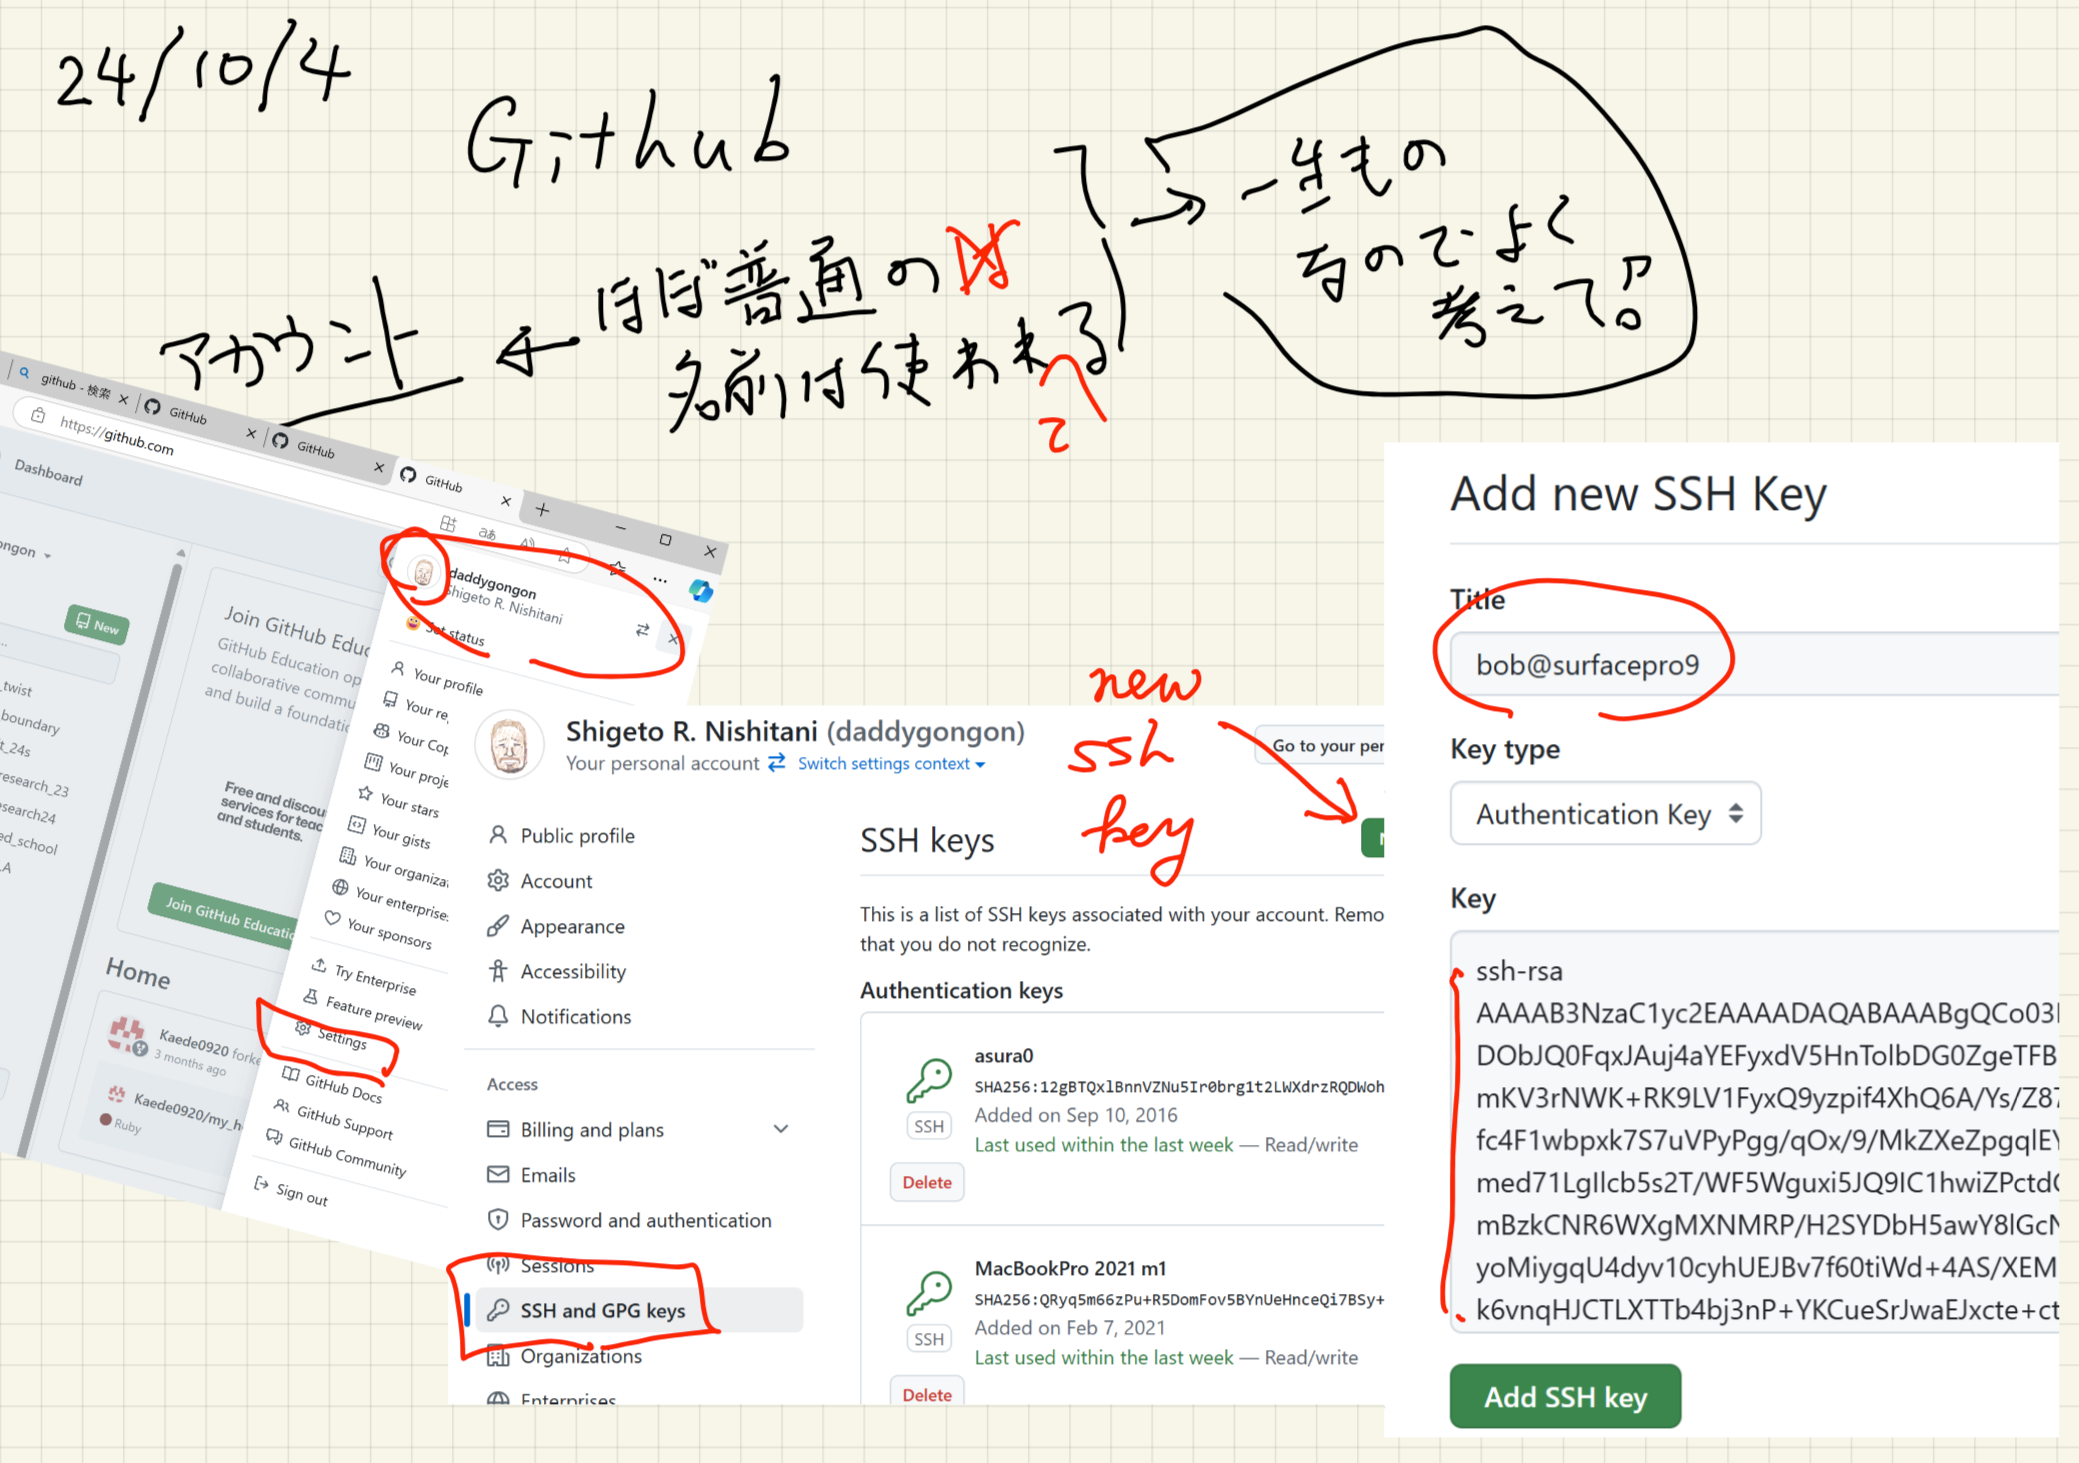
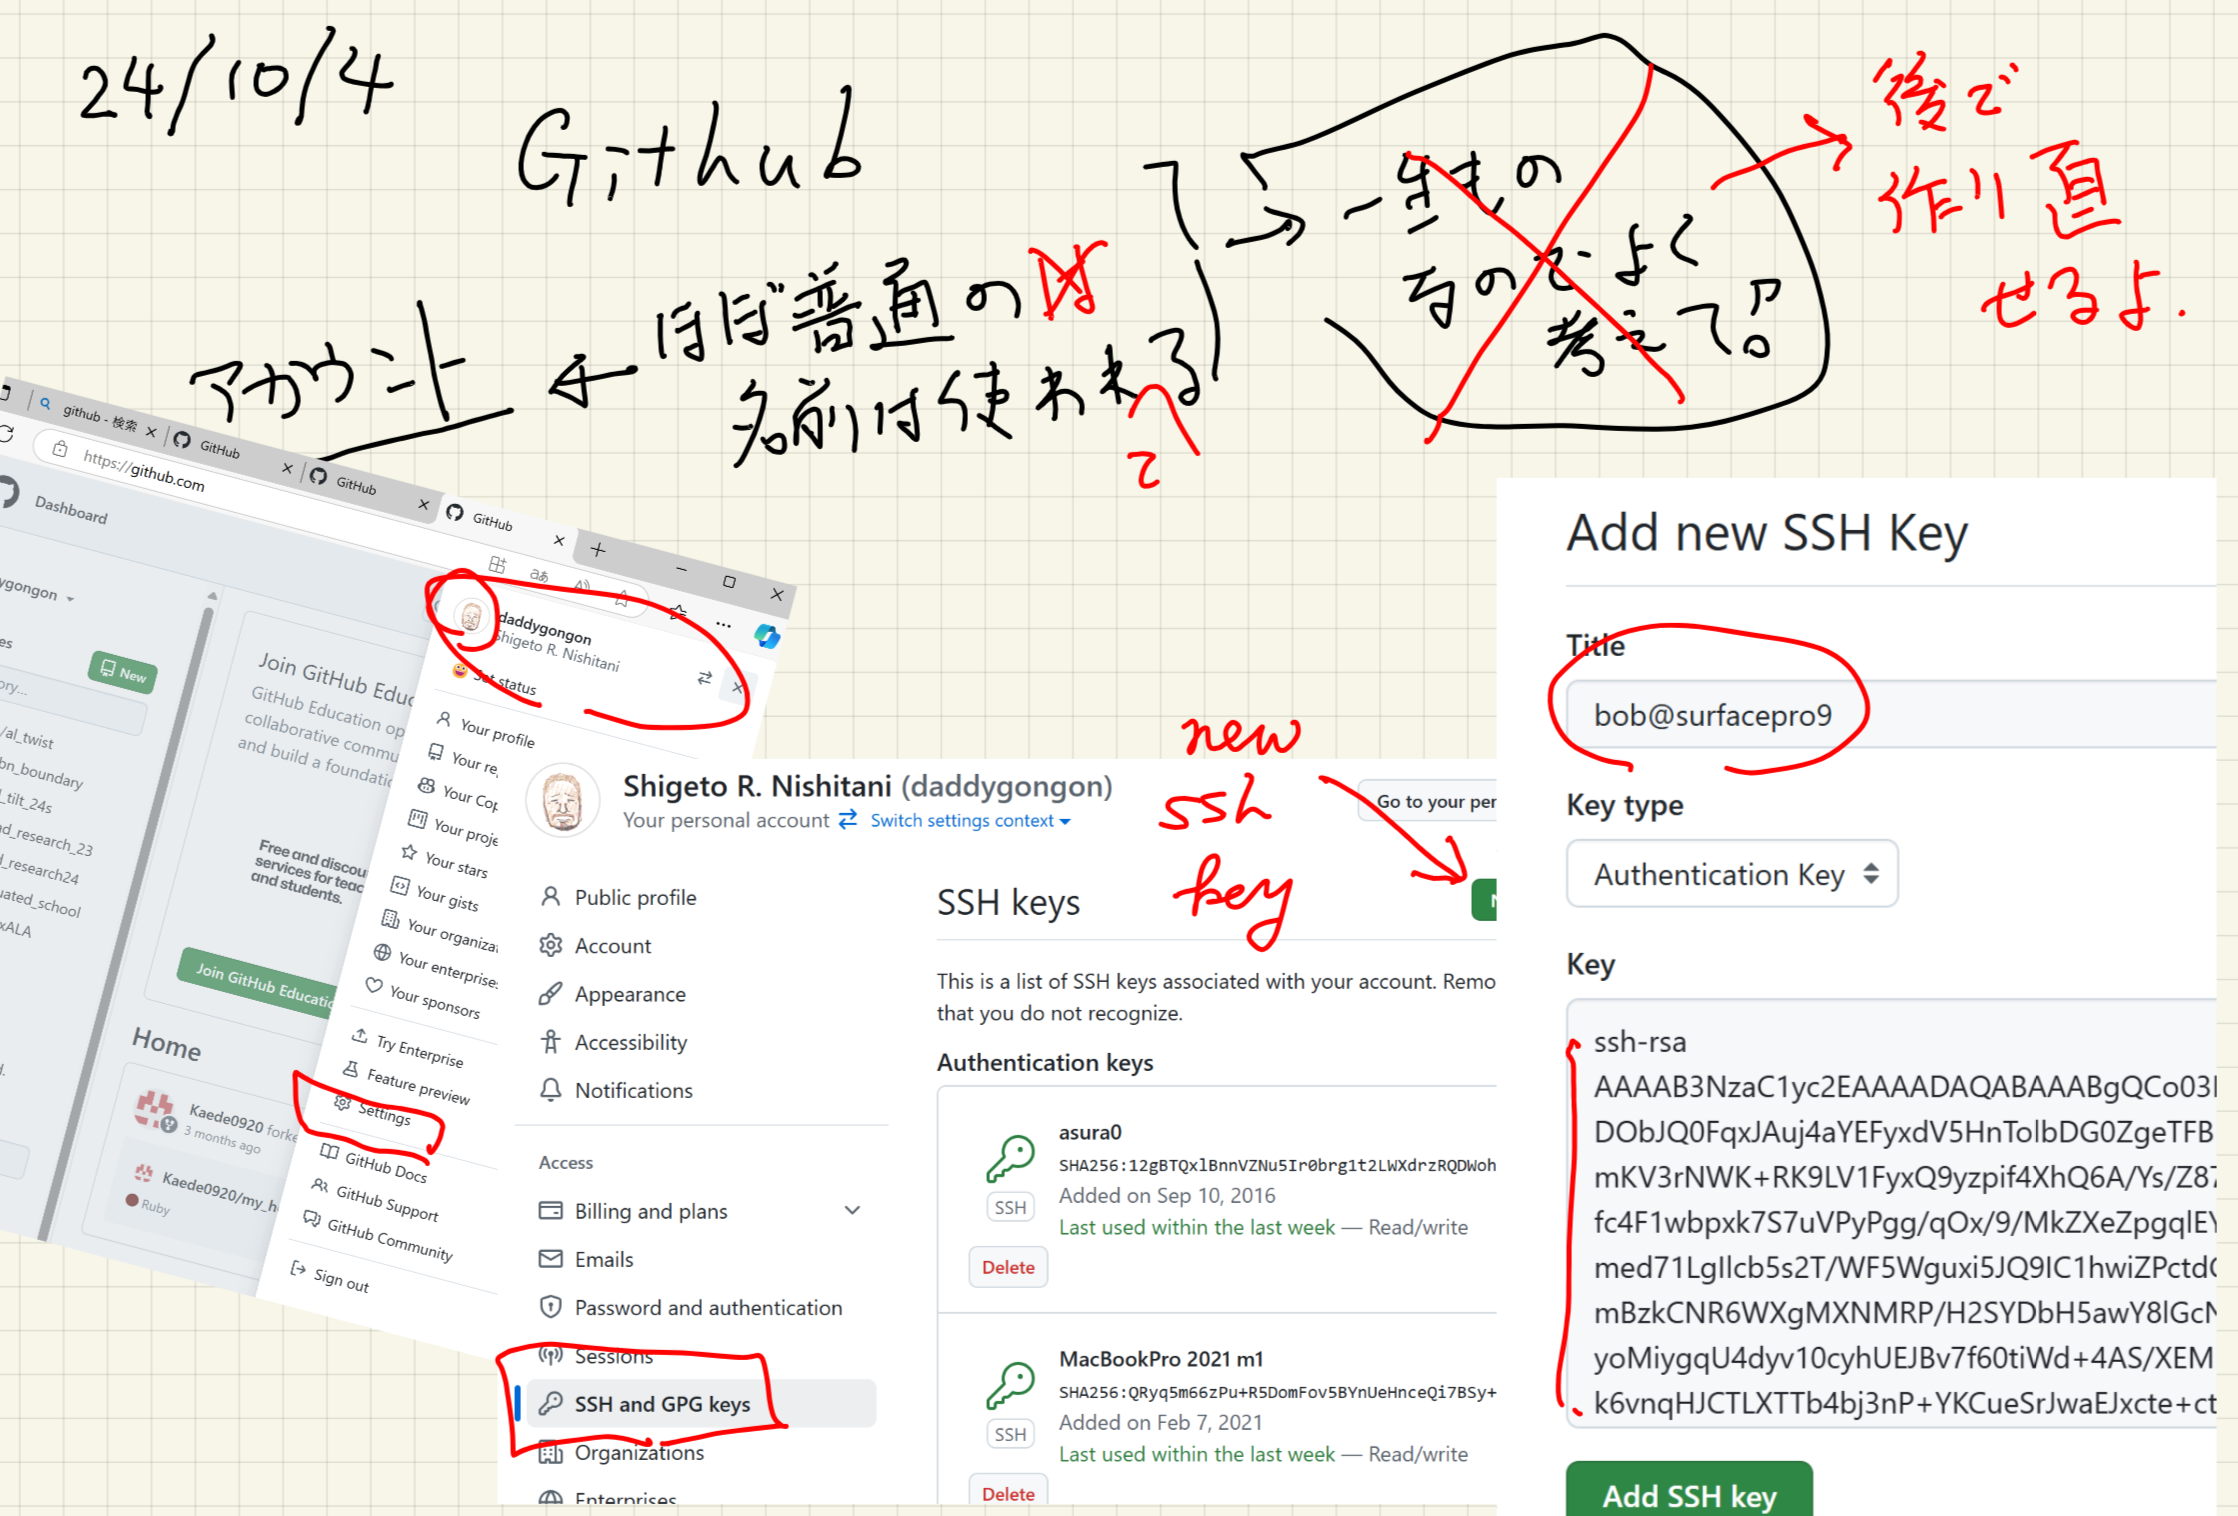
for w3

diff --git a/ssh_git/readme.html b/ssh_git/readme.html
@@ -3,7 +3,7 @@
 "http://www.w3.org/TR/xhtml1/DTD/xhtml1-strict.dtd">
 <html xmlns="http://www.w3.org/1999/xhtml" lang="jp" xml:lang="jp">
 <head>
-<!-- 2024-10-05 Sat 12:26 -->
+<!-- 2024-10-09 Wed 07:03 -->
 <meta http-equiv="Content-Type" content="text/html;charset=utf-8" />
 <meta name="viewport" content="width=device-width, initial-scale=1" />
 <title>ssh and github</title>
@@ -69,23 +69,24 @@ for the JavaScript code in this tag.
 <h2>Table of Contents</h2>
 <div id="text-table-of-contents">
 <ul>
-<li><a href="#org615fe09">1. ssh</a></li>
-<li><a href="#orgf07c2f4">2. github (web appli by rails)</a></li>
-<li><a href="#org1ab1387">3. git clone</a></li>
-<li><a href="#org29ef6ab">4. mk own repository</a></li>
-<li><a href="#org88f13b6">5. git</a>
+<li><a href="#org6c4d30e">1. ssh</a></li>
+<li><a href="#org0569901">2. github (web appli by rails)</a></li>
+<li><a href="#org4c6a851">3. git clone</a></li>
+<li><a href="#org95e6208">4. mk own repository</a></li>
+<li><a href="#org09a2634">5. git</a>
 <ul>
-<li><a href="#orgb0ba7a1">5.1. git init config</a></li>
-<li><a href="#org762be07">5.2. git basic commands</a></li>
+<li><a href="#orgaead79d">5.1. git init config</a></li>
+<li><a href="#org725a164">5.2. git basic commands</a></li>
 </ul>
 </li>
+<li><a href="#org186efd6">6. github作り直しメモ</a></li>
 </ul>
 </div>
 </div>
 
 
-<div id="outline-container-org615fe09" class="outline-2">
-<h2 id="org615fe09"><span class="section-number-2">1</span> ssh</h2>
+<div id="outline-container-org6c4d30e" class="outline-2">
+<h2 id="org6c4d30e"><span class="section-number-2">1</span> ssh</h2>
 <div class="outline-text-2" id="text-1">
 <ul class="org-ul">
 <li>already installed</li>
@@ -108,8 +109,8 @@ for the JavaScript code in this tag.
 </div>
 </div>
 
-<div id="outline-container-orgf07c2f4" class="outline-2">
-<h2 id="orgf07c2f4"><span class="section-number-2">2</span> github (web appli by rails)</h2>
+<div id="outline-container-org0569901" class="outline-2">
+<h2 id="org0569901"><span class="section-number-2">2</span> github (web appli by rails)</h2>
 <div class="outline-text-2" id="text-2">
 <ul class="org-ul">
 <li><code>explorer.exe https://github.com</code></li>
@@ -131,8 +132,8 @@ for the JavaScript code in this tag.
 </div>
 </div>
 
-<div id="outline-container-org1ab1387" class="outline-2">
-<h2 id="org1ab1387"><span class="section-number-2">3</span> git clone</h2>
+<div id="outline-container-org4c6a851" class="outline-2">
+<h2 id="org4c6a851"><span class="section-number-2">3</span> git clone</h2>
 <div class="outline-text-2" id="text-3">
 <ul class="org-ul">
 <li><code>git clone git@github.com.daddygongon/multi_scale_24f.git</code></li>
@@ -152,8 +153,8 @@ for the JavaScript code in this tag.
 </div>
 </div>
 
-<div id="outline-container-org29ef6ab" class="outline-2">
-<h2 id="org29ef6ab"><span class="section-number-2">4</span> mk own repository</h2>
+<div id="outline-container-org95e6208" class="outline-2">
+<h2 id="org95e6208"><span class="section-number-2">4</span> mk own repository</h2>
 <div class="outline-text-2" id="text-4">
 <ul class="org-ul">
 <li>named multi_scale_24f</li>
@@ -175,12 +176,12 @@ for the JavaScript code in this tag.
 </div>
 </div>
 
-<div id="outline-container-org88f13b6" class="outline-2">
-<h2 id="org88f13b6"><span class="section-number-2">5</span> git</h2>
+<div id="outline-container-org09a2634" class="outline-2">
+<h2 id="org09a2634"><span class="section-number-2">5</span> git</h2>
 <div class="outline-text-2" id="text-5">
 </div>
-<div id="outline-container-orgb0ba7a1" class="outline-3">
-<h3 id="orgb0ba7a1"><span class="section-number-3">5.1</span> git init config</h3>
+<div id="outline-container-orgaead79d" class="outline-3">
+<h3 id="orgaead79d"><span class="section-number-3">5.1</span> git init config</h3>
 <div class="outline-text-3" id="text-5-1">
 <ul class="org-ul">
 <li><code>git config --global user.name "Shigeto R. Nishitani"</code></li>
@@ -190,8 +191,8 @@ for the JavaScript code in this tag.
 </ul>
 </div>
 </div>
-<div id="outline-container-org762be07" class="outline-3">
-<h3 id="org762be07"><span class="section-number-3">5.2</span> git basic commands</h3>
+<div id="outline-container-org725a164" class="outline-3">
+<h3 id="org725a164"><span class="section-number-3">5.2</span> git basic commands</h3>
 <div class="outline-text-3" id="text-5-2">
 <ul class="org-ul">
 <li><code>git add -A</code></li>
@@ -205,10 +206,23 @@ for the JavaScript code in this tag.
 </div>
 </div>
 </div>
+<div id="outline-container-org186efd6" class="outline-2">
+<h2 id="org186efd6"><span class="section-number-2">6</span> github作り直しメモ</h2>
+<div class="outline-text-2" id="text-6">
+<ul class="org-ul">
+<li>新しいuser id作成</li>
+<li>sshのcopy</li>
+<li>mk own repository(新しいrepositoryを作って，remote addressをcopy)</li>
+<li><code>git remote rm origin</code></li>
+<li>push</li>
+<li>上手く行っているのを確認したら古いuser idを削除</li>
+</ul>
+</div>
+</div>
 </div>
 <div id="postamble" class="status">
 <p class="author">Author: Shigeto R. Nishitani</p>
-<p class="date">Created: 2024-10-05 Sat 12:26</p>
+<p class="date">Created: 2024-10-09 Wed 07:03</p>
 <p class="validation"><a href="http://validator.w3.org/check?uri=referer">Validate</a></p>
 </div>
 </body>

diff --git a/readme.html b/readme.html
@@ -3,7 +3,7 @@
 "http://www.w3.org/TR/xhtml1/DTD/xhtml1-strict.dtd">
 <html xmlns="http://www.w3.org/1999/xhtml" lang="jp" xml:lang="jp">
 <head>
-<!-- 2024-10-06 Sun 08:27 -->
+<!-- 2024-10-08 Tue 21:57 -->
 <meta http-equiv="Content-Type" content="text/html;charset=utf-8" />
 <meta name="viewport" content="width=device-width, initial-scale=1" />
 <title>todo for multi_scale</title>
@@ -69,16 +69,16 @@ for the JavaScript code in this tag.
 <h2>Table of Contents</h2>
 <div id="text-table-of-contents">
 <ul>
-<li><a href="#orga133eb0">1. ssh_git/readme.html</a></li>
-<li><a href="#orgab5840a">2. w2_my_help_emacs/readme.html</a></li>
-<li><a href="#org6bcb2ba">3. w1_introduction/readme.html</a></li>
+<li><a href="#orge117185">1. ssh_git/readme.html</a></li>
+<li><a href="#org0b56636">2. w2_my_help_emacs/readme.html</a></li>
+<li><a href="#org4fb28cb">3. w1_introduction/readme.html</a></li>
 </ul>
 </div>
 </div>
 
 
-<div id="outline-container-orga133eb0" class="outline-2">
-<h2 id="orga133eb0"><span class="section-number-2">1</span> ssh_git/readme.html</h2>
+<div id="outline-container-orge117185" class="outline-2">
+<h2 id="orge117185"><span class="section-number-2">1</span> ssh_git/readme.html</h2>
 <div class="outline-text-2" id="text-1">
 <a href="ssh_git/readme.html"
   class="example">
@@ -90,8 +90,8 @@ for the JavaScript code in this tag.
 </div>
 </div>
 
-<div id="outline-container-orgab5840a" class="outline-2">
-<h2 id="orgab5840a"><span class="section-number-2">2</span> w2_my_help_emacs/readme.html</h2>
+<div id="outline-container-org0b56636" class="outline-2">
+<h2 id="org0b56636"><span class="section-number-2">2</span> w2_my_help_emacs/readme.html</h2>
 <div class="outline-text-2" id="text-2">
 <a href="w2_my_help_emacs/readme.html"
   class="example">
@@ -103,8 +103,8 @@ for the JavaScript code in this tag.
 </div>
 </div>
 
-<div id="outline-container-org6bcb2ba" class="outline-2">
-<h2 id="org6bcb2ba"><span class="section-number-2">3</span> w1_introduction/readme.html</h2>
+<div id="outline-container-org4fb28cb" class="outline-2">
+<h2 id="org4fb28cb"><span class="section-number-2">3</span> w1_introduction/readme.html</h2>
 <div class="outline-text-2" id="text-3">
 <a href="w1_introduction/readme.html"
   class="example">
@@ -118,7 +118,7 @@ for the JavaScript code in this tag.
 </div>
 <div id="postamble" class="status">
 <p class="author">Author: Shigeto R. Nishitani</p>
-<p class="date">Created: 2024-10-06 Sun 08:27</p>
+<p class="date">Created: 2024-10-08 Tue 21:57</p>
 <p class="validation"><a href="http://validator.w3.org/check?uri=referer">Validate</a></p>
 </div>
 </body>
